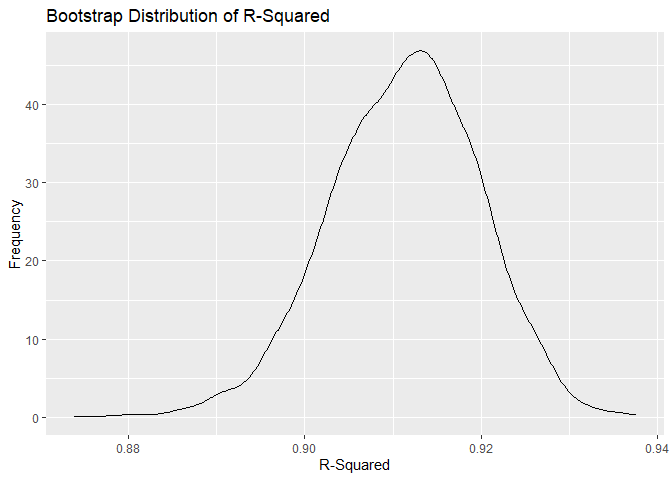
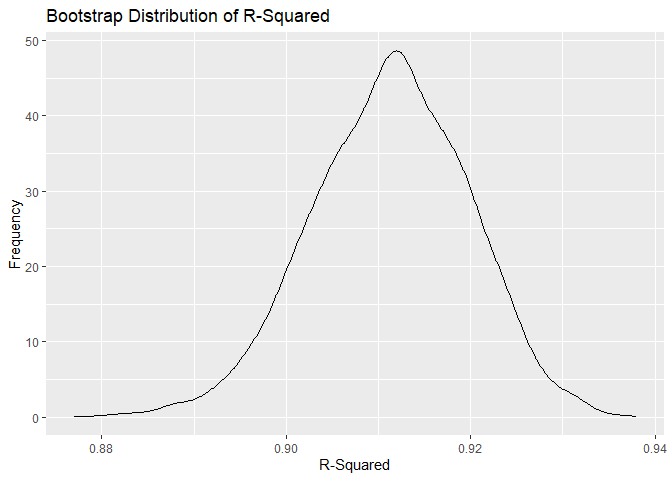
Complete Problem 2

diff --git a/p8105_hw6_tl3279.md b/p8105_hw6_tl3279.md
@@ -7,17 +7,6 @@ Tianqi Li
 library(tidyverse)
 ```
 
-    ## ── Attaching core tidyverse packages ──────────────────────── tidyverse 2.0.0 ──
-    ## ✔ dplyr     1.1.4     ✔ readr     2.1.5
-    ## ✔ forcats   1.0.0     ✔ stringr   1.5.1
-    ## ✔ ggplot2   3.5.1     ✔ tibble    3.2.1
-    ## ✔ lubridate 1.9.3     ✔ tidyr     1.3.1
-    ## ✔ purrr     1.0.2     
-    ## ── Conflicts ────────────────────────────────────────── tidyverse_conflicts() ──
-    ## ✖ dplyr::filter() masks stats::filter()
-    ## ✖ dplyr::lag()    masks stats::lag()
-    ## ℹ Use the conflicted package (<http://conflicted.r-lib.org/>) to force all conflicts to become errors
-
 ## Problem 1
 
 ``` r
@@ -33,12 +22,6 @@ weather_df =
     tmax = tmax / 10) %>%
   select(name, id, everything())
 ```
-
-    ## using cached file: C:\Users\ltquc\AppData\Local/R/cache/R/rnoaa/noaa_ghcnd/USW00094728.dly
-
-    ## date created (size, mb): 2024-10-16 15:12:29.471384 (8.67)
-
-    ## file min/max dates: 1869-01-01 / 2024-10-31
 
 Create the bootstrap samples
 
@@ -88,8 +71,8 @@ boot_straps |>
 
 ![](p8105_hw6_tl3279_files/figure-gfm/unnamed-chunk-4-2.png)<!-- -->
 
-R-squared distributed between 0.89 to 0.93 with peak at about 0.915.  
-log distributed between about 1.99 to 2.06 with peak about 2.01.
+R-squared distributed between 0.87 to 0.94 with peak at about 0.915.  
+log distributed between about 1.90 to 2.10 with peak about 2.02.
 
 ``` r
 boot_straps |>
@@ -105,3 +88,155 @@ boot_straps |>
     ##   r2_ci_ll r2_ci_ul log_ci_ll log_ci_ul
     ##      <dbl>    <dbl>     <dbl>     <dbl>
     ## 1    0.894    0.927      1.97      2.06
+
+## Problem 2
+
+Load the dataset
+
+``` r
+data_url = "https://raw.githubusercontent.com/washingtonpost/data-homicides/master/homicide-data.csv"
+
+homicide_data = read_csv(data_url)
+```
+
+Create the city_state variable and filter the dataset
+
+``` r
+homicide_df = 
+  homicide_data |>
+    mutate(
+    city_state = paste(city, state, sep = ","),
+    solved = ifelse(disposition == "Closed by arrest", 1, 0)
+    ) |>
+  filter(!(city_state %in% c("Dallas,TX","Phoenix,AZ","Kansas City,MO","Tulsa,AL"))) |>
+  filter(victim_race %in% c("White","Black")) |>
+  mutate(victim_age = as.numeric(victim_age))
+```
+
+Focus on Baltimore city
+
+``` r
+baltimore_test <- 
+  homicide_df |>
+  filter(city_state == "Baltimore,MD") |>
+  glm(solved ~ victim_age + victim_sex + victim_race, family = "binomial", 
+      data = _) |>
+  broom::tidy(conf.int = TRUE, conf.level = 0.95) |>
+  mutate(
+    OR = exp(estimate),
+    lower = exp(conf.low),
+    upper = exp(conf.high)
+  ) |>
+  filter(term == "victim_sexMale") |>
+  select(OR, lower, upper)
+baltimore_test |>
+  knitr::kable(digits = 3)
+```
+
+|    OR | lower | upper |
+|------:|------:|------:|
+| 0.426 | 0.324 | 0.558 |
+
+For each cities
+
+``` r
+city_tests <- 
+  homicide_df |>
+  group_by(city_state) |>
+  nest() |>
+  mutate(
+    fit = map(
+      data, ~ glm(solved ~ victim_age + victim_race + victim_sex, data = ., family = binomial())
+      ),
+    results = map(fit, ~ broom::tidy(.x, conf.int = TRUE, conf.level = 0.95))
+  ) |>
+  unnest(results) |>
+  mutate(
+    OR = exp(estimate),
+    lower = exp(conf.low),
+    upper = exp(conf.high)
+  ) |>
+  filter(term == "victim_sexMale") |>
+  select(city_state, OR, lower, upper)
+```
+
+    ## Warning: There were 45 warnings in `mutate()`.
+    ## The first warning was:
+    ## ℹ In argument: `results = map(fit, ~broom::tidy(.x, conf.int = TRUE, conf.level
+    ##   = 0.95))`.
+    ## ℹ In group 1: `city_state = "Albuquerque,NM"`.
+    ## Caused by warning:
+    ## ! glm.fit:拟合概率算出来是数值零或一
+    ## ℹ Run `dplyr::last_dplyr_warnings()` to see the 44 remaining warnings.
+
+``` r
+city_tests |>
+  knitr::kable(digits = 3)
+```
+
+| city_state        |    OR | lower | upper |
+|:------------------|------:|------:|------:|
+| Albuquerque,NM    | 1.767 | 0.825 | 3.762 |
+| Atlanta,GA        | 1.000 | 0.680 | 1.458 |
+| Baltimore,MD      | 0.426 | 0.324 | 0.558 |
+| Baton Rouge,LA    | 0.381 | 0.204 | 0.684 |
+| Birmingham,AL     | 0.870 | 0.571 | 1.314 |
+| Boston,MA         | 0.674 | 0.353 | 1.277 |
+| Buffalo,NY        | 0.521 | 0.288 | 0.936 |
+| Charlotte,NC      | 0.884 | 0.551 | 1.391 |
+| Chicago,IL        | 0.410 | 0.336 | 0.501 |
+| Cincinnati,OH     | 0.400 | 0.231 | 0.667 |
+| Columbus,OH       | 0.532 | 0.377 | 0.748 |
+| Denver,CO         | 0.479 | 0.233 | 0.962 |
+| Detroit,MI        | 0.582 | 0.462 | 0.734 |
+| Durham,NC         | 0.812 | 0.382 | 1.658 |
+| Fort Worth,TX     | 0.669 | 0.394 | 1.121 |
+| Fresno,CA         | 1.335 | 0.567 | 3.048 |
+| Houston,TX        | 0.711 | 0.557 | 0.906 |
+| Indianapolis,IN   | 0.919 | 0.678 | 1.241 |
+| Jacksonville,FL   | 0.720 | 0.536 | 0.965 |
+| Las Vegas,NV      | 0.837 | 0.606 | 1.151 |
+| Long Beach,CA     | 0.410 | 0.143 | 1.024 |
+| Los Angeles,CA    | 0.662 | 0.457 | 0.954 |
+| Louisville,KY     | 0.491 | 0.301 | 0.784 |
+| Memphis,TN        | 0.723 | 0.526 | 0.984 |
+| Miami,FL          | 0.515 | 0.304 | 0.873 |
+| Milwaukee,wI      | 0.727 | 0.495 | 1.054 |
+| Minneapolis,MN    | 0.947 | 0.476 | 1.881 |
+| Nashville,TN      | 1.034 | 0.681 | 1.556 |
+| New Orleans,LA    | 0.585 | 0.422 | 0.812 |
+| New York,NY       | 0.262 | 0.133 | 0.485 |
+| Oakland,CA        | 0.563 | 0.364 | 0.867 |
+| Oklahoma City,OK  | 0.974 | 0.623 | 1.520 |
+| Omaha,NE          | 0.382 | 0.199 | 0.711 |
+| Philadelphia,PA   | 0.496 | 0.376 | 0.650 |
+| Pittsburgh,PA     | 0.431 | 0.263 | 0.696 |
+| Richmond,VA       | 1.006 | 0.483 | 1.994 |
+| San Antonio,TX    | 0.705 | 0.393 | 1.238 |
+| Sacramento,CA     | 0.669 | 0.326 | 1.314 |
+| Savannah,GA       | 0.867 | 0.419 | 1.780 |
+| San Bernardino,CA | 0.500 | 0.166 | 1.462 |
+| San Diego,CA      | 0.413 | 0.191 | 0.830 |
+| San Francisco,CA  | 0.608 | 0.312 | 1.155 |
+| St. Louis,MO      | 0.703 | 0.530 | 0.932 |
+| Stockton,CA       | 1.352 | 0.626 | 2.994 |
+| Tampa,FL          | 0.808 | 0.340 | 1.860 |
+| Tulsa,OK          | 0.976 | 0.609 | 1.544 |
+| Washington,DC     | 0.690 | 0.465 | 1.012 |
+
+Plot estimated ORs and CIs
+
+``` r
+city_tests |>
+  ggplot(aes(x = reorder(city_state,OR), y = OR)) +
+  geom_point() +
+  geom_errorbar(aes(ymin = lower, ymax = upper), width = 0.25, color = "darkgray") +
+  labs(
+    x = "City",
+    y = "Odds Ratio"
+  ) +
+  coord_flip() +
+  theme_minimal()
+```
+
+![](p8105_hw6_tl3279_files/figure-gfm/unnamed-chunk-10-1.png)<!-- -->
